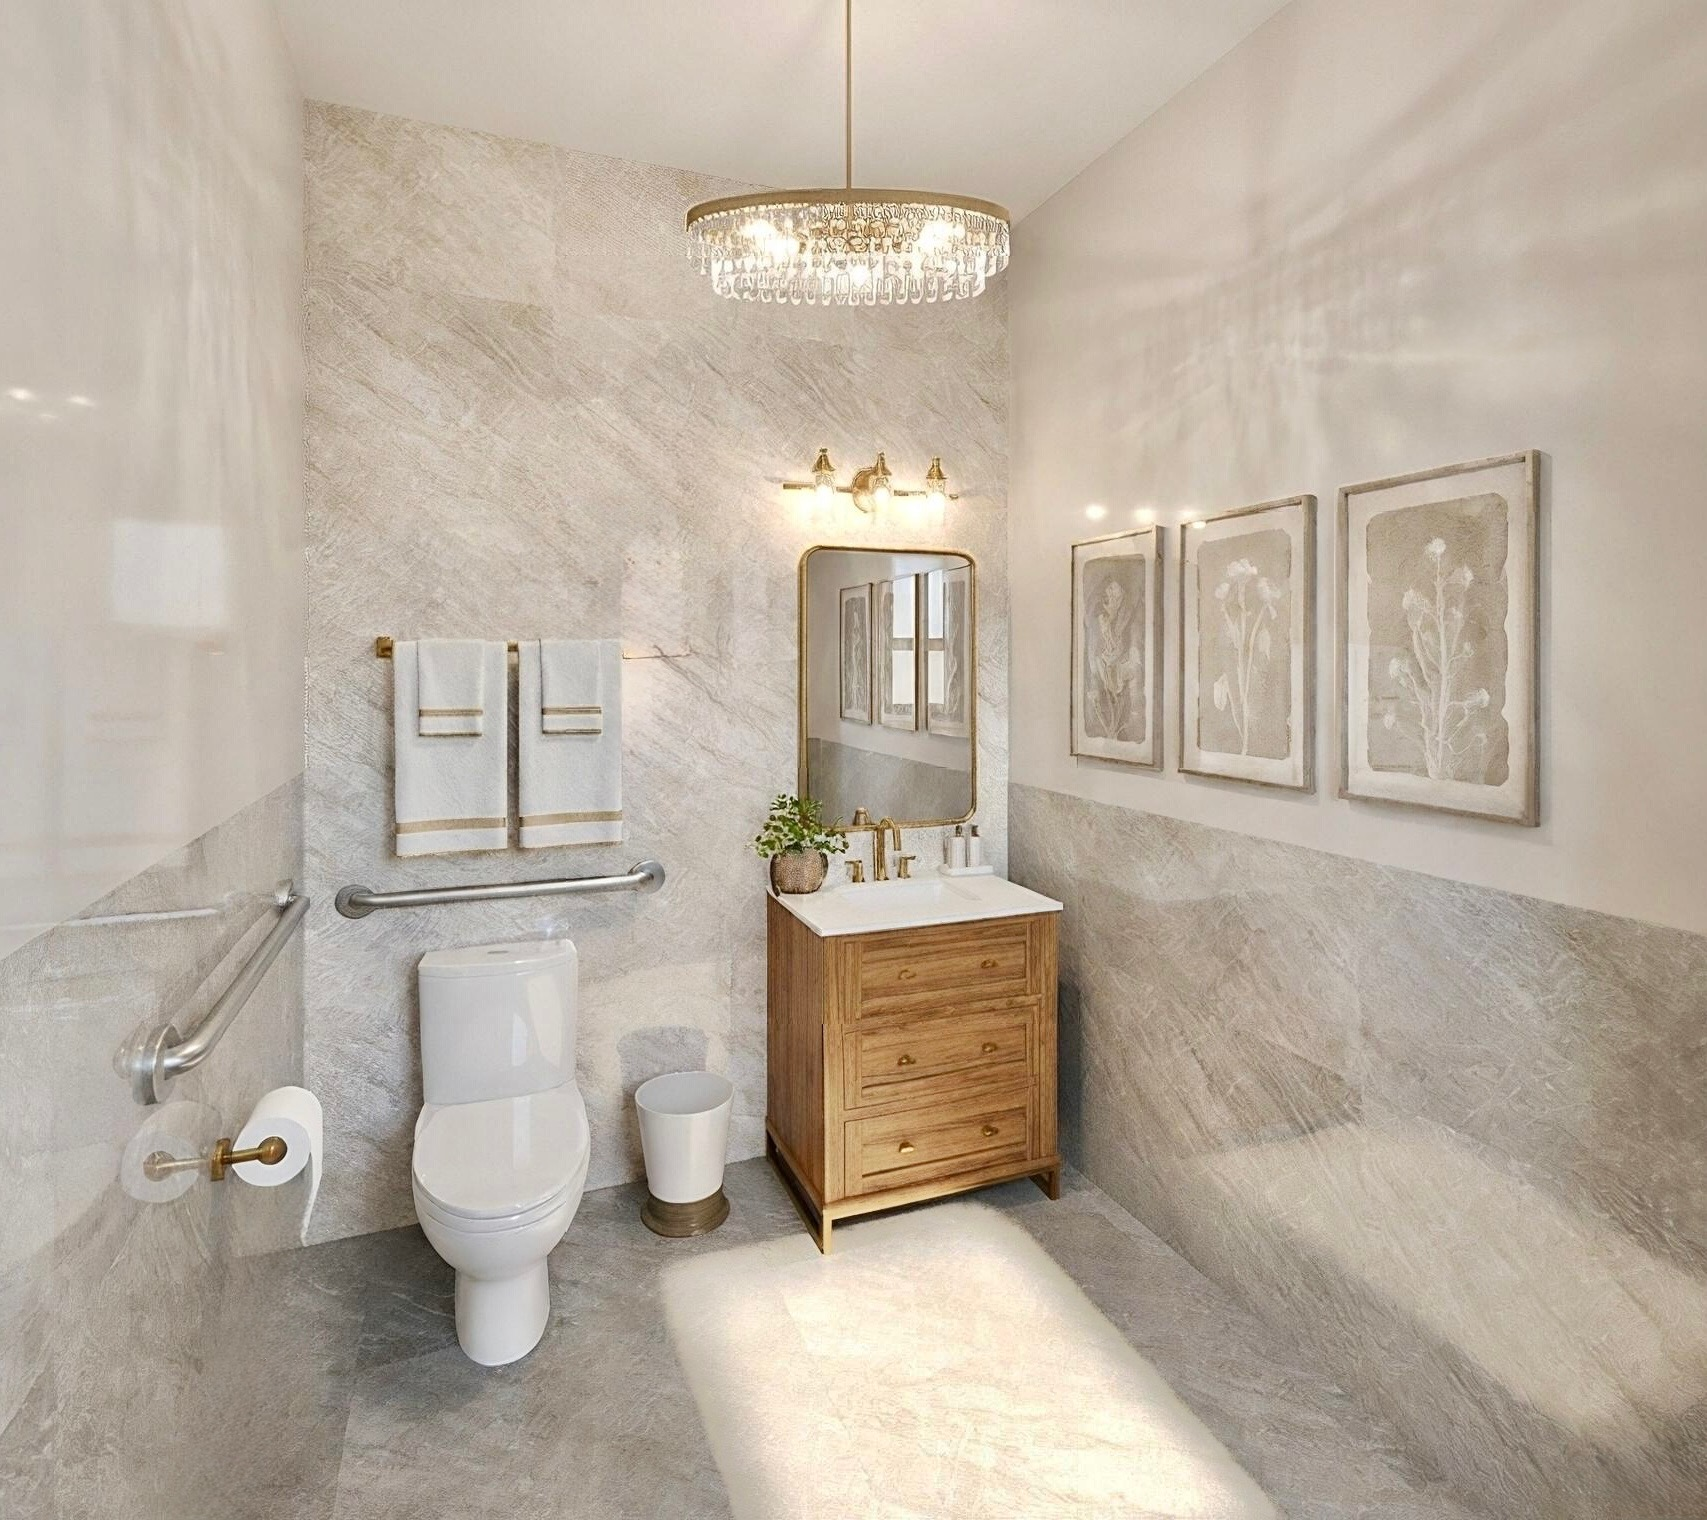
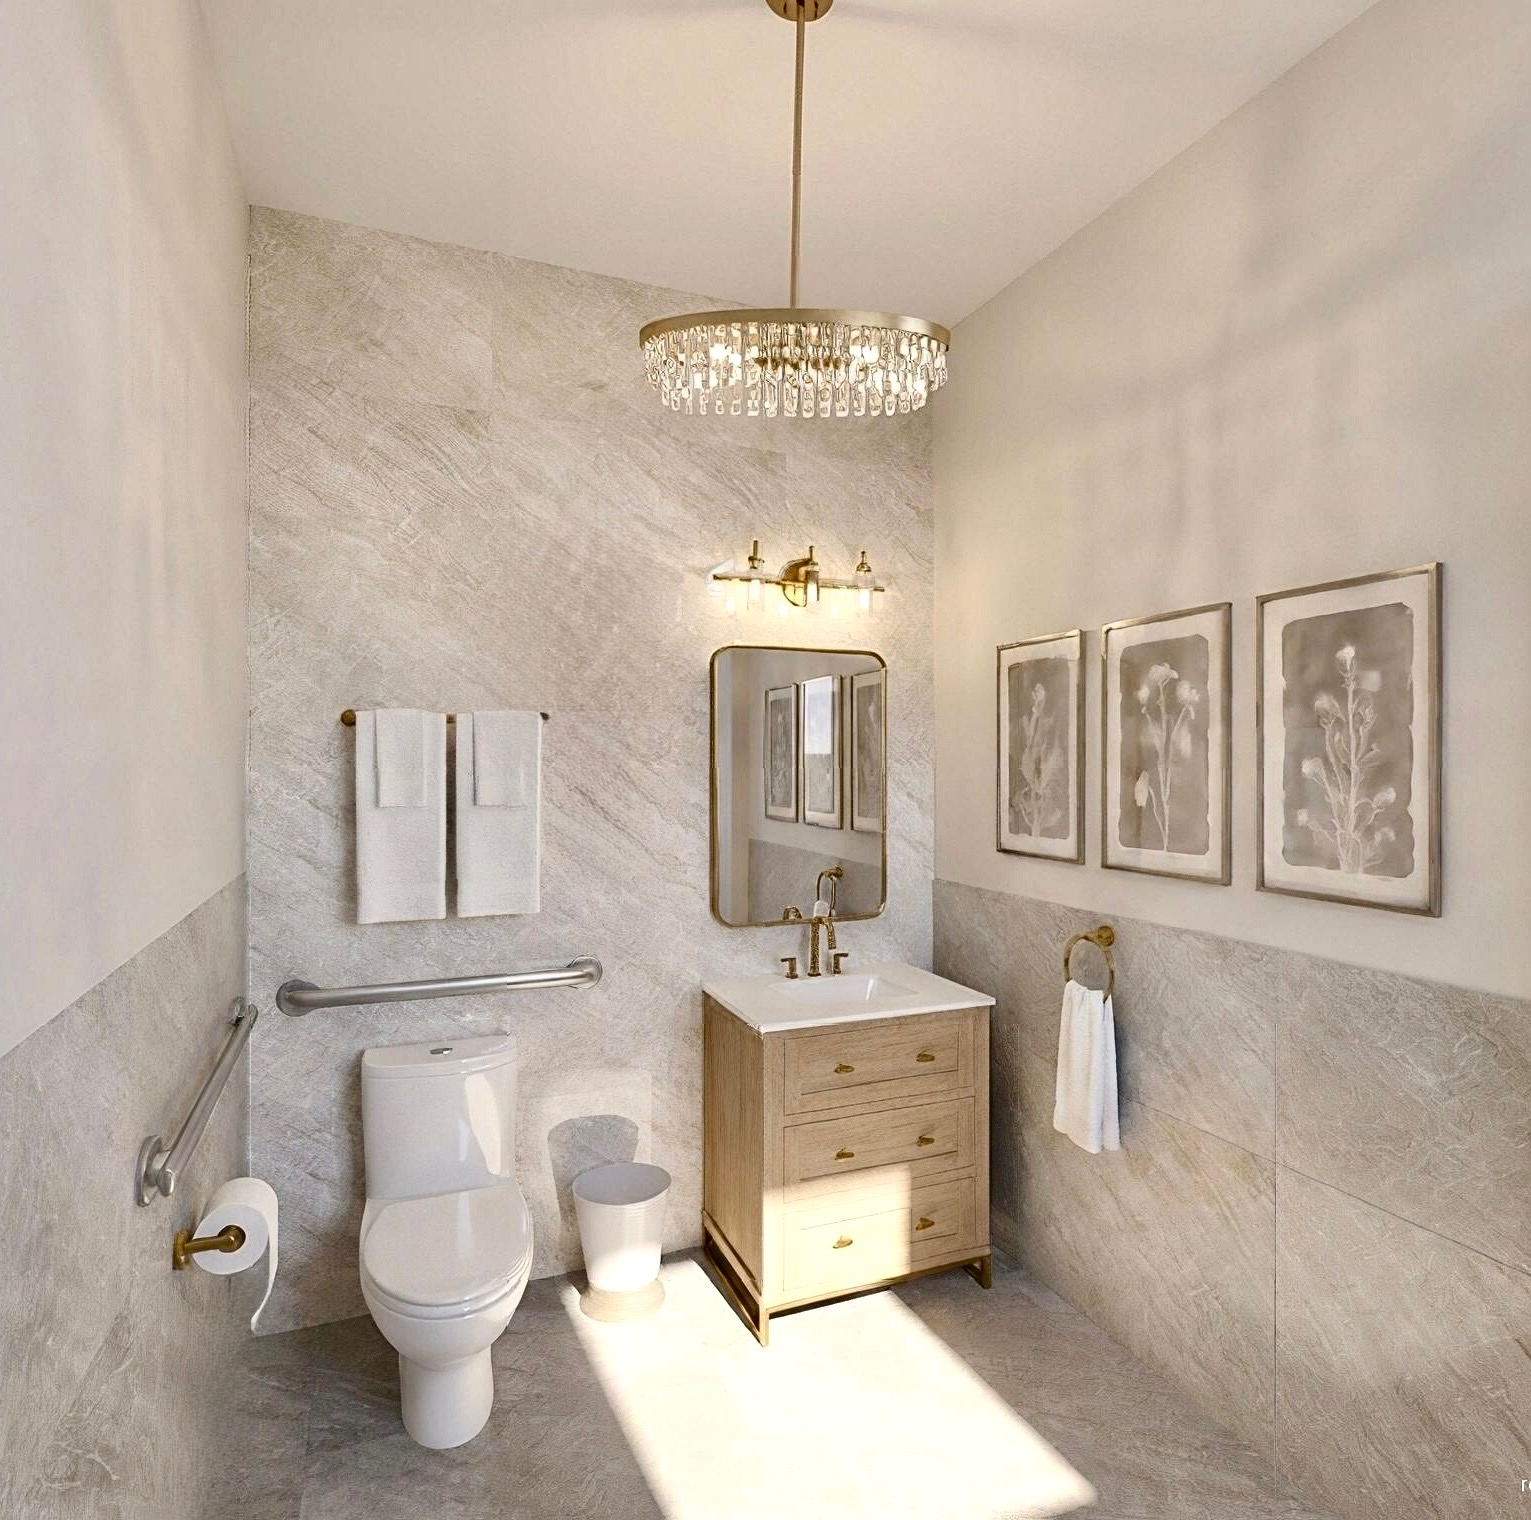
Add files via upload

diff --git a/index.html b/index.html
@@ -21,7 +21,7 @@
 <meta content="width=device-width, initial-scale=1" name="viewport"/>
 <title>The Suites at Adair | Five Private Salon Suites</title>
 <meta content="Five private luxury salon suites in Downtown Woodstock, Georgia." name="description"/>
-<link href="css/style.css?v=54" rel="stylesheet"/><link href="images/favicon.png" rel="icon" type="image/png"/><meta content="The Suites at Adair" property="og:title"/><meta content="Five private salon suites at the edge of Downtown Woodstock." property="og:description"/><meta content="website" property="og:type"/><meta content="https://thesuitesatadair.com/" property="og:url"/><meta content="#f4efe5" name="theme-color"/><style id="floor-plan-production-styles">/* V31 interactive floor plan */
+<link href="css/style.css?v=56" rel="stylesheet"/><link href="images/favicon.png" rel="icon" type="image/png"/><meta content="The Suites at Adair" property="og:title"/><meta content="Five private salon suites at the edge of Downtown Woodstock." property="og:description"/><meta content="website" property="og:type"/><meta content="https://thesuitesatadair.com/" property="og:url"/><meta content="#f4efe5" name="theme-color"/><style id="floor-plan-production-styles">/* V31 interactive floor plan */
 .floor-plan-section{padding:110px 0;background:#f7f2e9;border-top:1px solid rgba(25,24,20,.08);border-bottom:1px solid rgba(25,24,20,.08)}
 .floor-plan-head{display:grid;grid-template-columns:1.05fr .95fr;gap:55px;align-items:end;margin-bottom:42px}
 .floor-plan-head h2{margin:.2rem 0 0;font-size:clamp(2.8rem,5vw,5.2rem);line-height:.95}
@@ -807,7 +807,7 @@ FIVE PRIVATE SUITES   •   DOWNTOWN WOODSTOCK   •   BOUTIQUE BY DESIGN  
 <button aria-label="Close enlarged floor plan" class="plan-modal-close" type="button">×</button>
 <img alt="Enlarged floor plan of The Suites at Adair" src="images/floor-plan-clean.jpg"/>
 </div>
-<section class="editorial" id="gallery"><div class="wrap"><div class="gallery-head reveal"><h2>Gallery</h2><p>Explore each private suite and the shared amenities.</p></div><section class="gallery-showcase reveal"><div class="gallery-showcase-head"><h3>Exterior</h3><span>1 photo</span></div><div class="gallery-showcase-rail"><figure aria-label="Open Exterior of The Suites at Adair larger" class="gallery-card" role="button" tabindex="0"><img alt="Exterior of The Suites at Adair" decoding="async" loading="eager" src="images/03-front-exterior-of-the-suites-at-adair-at-60-linton-stre.jpg"/><figcaption class="gallery-label">Exterior</figcaption></figure></div></section><section class="gallery-showcase reveal"><div class="gallery-showcase-head"><h3>Suite 1</h3><span>2 photos</span></div><div class="gallery-showcase-rail"><figure aria-label="Open Suite 1 view one larger" class="gallery-card" role="button" tabindex="0"><img alt="Suite 1 view one" decoding="async" loading="eager" src="images/suite-1-view-1.jpg"/><figcaption class="gallery-label">Suite 1</figcaption></figure><figure aria-label="Open Suite 1 view two larger" class="gallery-card" role="button" tabindex="0"><img alt="Suite 1 view two" decoding="async" loading="eager" src="images/suite-1-view-2.jpg"/><figcaption class="gallery-label">Suite 1 · View 2</figcaption></figure></div></section><section class="gallery-showcase reveal"><div class="gallery-showcase-head"><h3>Suite 2</h3><span>2 photos</span></div><div class="gallery-showcase-rail"><figure aria-label="Open Suite 2 view one larger" class="gallery-card" role="button" tabindex="0"><img alt="Suite 2 view one" decoding="async" loading="lazy" src="images/suite-2-view-1.jpg"/><figcaption class="gallery-label">Suite 2</figcaption></figure><figure aria-label="Open Suite 2 view two larger" class="gallery-card" role="button" tabindex="0"><img alt="Suite 2 view two" decoding="async" loading="lazy" src="images/suite-2-view-2.jpg"/><figcaption class="gallery-label">Suite 2 · View 2</figcaption></figure></div></section><section class="gallery-showcase reveal"><div class="gallery-showcase-head"><h3>Suite 3</h3><span>2 photos</span></div><div class="gallery-showcase-rail"><figure aria-label="Open Suite 3 view one larger" class="gallery-card" role="button" tabindex="0"><img alt="Suite 3 view one" decoding="async" loading="lazy" src="images/suite-3-view-1.jpg"/><figcaption class="gallery-label">Suite 3</figcaption></figure><figure aria-label="Open Suite 3 view two larger" class="gallery-card" role="button" tabindex="0"><img alt="Suite 3 view two" decoding="async" loading="lazy" src="images/suite-3-view-2.jpg"/><figcaption class="gallery-label">Suite 3 · View 2</figcaption></figure></div></section><section class="gallery-showcase reveal"><div class="gallery-showcase-head"><h3>Suite 4</h3><span>2 photos</span></div><div class="gallery-showcase-rail"><figure aria-label="Open Suite 4 view one larger" class="gallery-card" role="button" tabindex="0"><img alt="Suite 4 view one" decoding="async" loading="lazy" src="images/suite-4-view-1.jpg"/><figcaption class="gallery-label">Suite 4</figcaption></figure><figure aria-label="Open Suite 4 view two larger" class="gallery-card" role="button" tabindex="0"><img alt="Suite 4 view two" decoding="async" loading="lazy" src="images/suite-4-view-2.jpg"/><figcaption class="gallery-label">Suite 4 · View 2</figcaption></figure></div></section><section class="gallery-showcase reveal"><div class="gallery-showcase-head"><h3>Suite 5</h3><span>3 photos</span></div><div class="gallery-showcase-rail"><figure aria-label="Open Suite 5 view one larger" class="gallery-card" role="button" tabindex="0"><img alt="Suite 5 view one" decoding="async" loading="lazy" src="images/10-large-salon-suite-with-styling-and-shampoo-stations.jpg"/><figcaption class="gallery-label">Suite 5</figcaption></figure><figure aria-label="Open Suite 5 view two larger" class="gallery-card" role="button" tabindex="0"><img alt="Suite 5 view two" decoding="async" loading="lazy" src="images/09-salon-suite-with-brick-wall-and-double-styling-stations.jpg"/><figcaption class="gallery-label">Suite 5 · View 2</figcaption></figure><figure aria-label="Open Suite 5 view three larger" class="gallery-card" role="button" tabindex="0"><img alt="Suite 5 view three" decoding="async" loading="lazy" src="images/suite-5-view-3.jpg"/><figcaption class="gallery-label">Suite 5 · View 3</figcaption></figure></div></section><section class="gallery-showcase reveal"><div class="gallery-showcase-head"><h3>Shared Spaces</h3><span>4 photos</span></div><div class="gallery-showcase-rail"><figure aria-label="Open Shared hallway larger" class="gallery-card" role="button" tabindex="0"><img alt="Shared hallway" decoding="async" loading="lazy" src="images/05-interior-corridor-with-glass-front-private-suites.jpg"/><figcaption class="gallery-label">Shared Spaces</figcaption></figure><figure aria-label="Open Shared hallway second view larger" class="gallery-card" role="button" tabindex="0"><img alt="Shared hallway second view" decoding="async" loading="lazy" src="images/06-bright-corridor-and-hospitality-area.jpg"/><figcaption class="gallery-label">Shared Spaces · View 2</figcaption></figure><figure aria-label="Open Coffee bar larger" class="gallery-card" role="button" tabindex="0"><img alt="Coffee bar" decoding="async" loading="lazy" src="images/coffee-bar.jpg"/><figcaption class="gallery-label">Shared Spaces · View 3</figcaption></figure><figure aria-label="Open Private restroom larger" class="gallery-card" role="button" tabindex="0"><img alt="Private restroom" decoding="async" loading="lazy" src="images/private-restroom.jpg"/><figcaption class="gallery-label">Shared Spaces · View 4</figcaption></figure></div></section></div>
+<section class="editorial" id="gallery"><div class="wrap"><div class="gallery-head reveal"><h2>Gallery</h2><p>Explore each private suite and the shared amenities.</p></div><section class="gallery-showcase reveal"><div class="gallery-showcase-head"><h3>Exterior</h3><span>1 photo</span></div><div class="gallery-showcase-rail"><figure aria-label="Open Exterior of The Suites at Adair larger" class="gallery-card" role="button" tabindex="0"><img alt="Exterior of The Suites at Adair" decoding="async" loading="eager" src="images/03-front-exterior-of-the-suites-at-adair-at-60-linton-stre.jpg"/><figcaption class="gallery-label">Exterior</figcaption></figure></div></section><section class="gallery-showcase reveal"><div class="gallery-showcase-head"><h3>Suite 1</h3><span>2 photos</span></div><div class="gallery-showcase-rail"><figure aria-label="Open Suite 1 view one larger" class="gallery-card" role="button" tabindex="0"><img alt="Suite 1 view one" decoding="async" loading="eager" src="images/suite-1-view-1.jpg"/><figcaption class="gallery-label">Suite 1</figcaption></figure><figure aria-label="Open Suite 1 view two larger" class="gallery-card" role="button" tabindex="0"><img alt="Suite 1 view two" decoding="async" loading="eager" src="images/suite-1-view-2.jpg?v=55"/><figcaption class="gallery-label">Suite 1 · View 2</figcaption></figure></div></section><section class="gallery-showcase reveal"><div class="gallery-showcase-head"><h3>Suite 2</h3><span>2 photos</span></div><div class="gallery-showcase-rail"><figure aria-label="Open Suite 2 view one larger" class="gallery-card" role="button" tabindex="0"><img alt="Suite 2 view one" decoding="async" loading="lazy" src="images/suite-2-view-1.jpg"/><figcaption class="gallery-label">Suite 2</figcaption></figure><figure aria-label="Open Suite 2 view two larger" class="gallery-card" role="button" tabindex="0"><img alt="Suite 2 view two" decoding="async" loading="lazy" src="images/suite-2-view-2.jpg"/><figcaption class="gallery-label">Suite 2 · View 2</figcaption></figure></div></section><section class="gallery-showcase reveal"><div class="gallery-showcase-head"><h3>Suite 3</h3><span>2 photos</span></div><div class="gallery-showcase-rail"><figure aria-label="Open Suite 3 view one larger" class="gallery-card" role="button" tabindex="0"><img alt="Suite 3 view one" decoding="async" loading="lazy" src="images/suite-3-view-1.jpg"/><figcaption class="gallery-label">Suite 3</figcaption></figure><figure aria-label="Open Suite 3 view two larger" class="gallery-card" role="button" tabindex="0"><img alt="Suite 3 view two" decoding="async" loading="lazy" src="images/suite-3-view-2.jpg"/><figcaption class="gallery-label">Suite 3 · View 2</figcaption></figure></div></section><section class="gallery-showcase reveal"><div class="gallery-showcase-head"><h3>Suite 4</h3><span>2 photos</span></div><div class="gallery-showcase-rail"><figure aria-label="Open Suite 4 view one larger" class="gallery-card" role="button" tabindex="0"><img alt="Suite 4 view one" decoding="async" loading="lazy" src="images/suite-4-view-1.jpg"/><figcaption class="gallery-label">Suite 4</figcaption></figure><figure aria-label="Open Suite 4 view two larger" class="gallery-card" role="button" tabindex="0"><img alt="Suite 4 view two" decoding="async" loading="lazy" src="images/suite-4-view-2.jpg"/><figcaption class="gallery-label">Suite 4 · View 2</figcaption></figure></div></section><section class="gallery-showcase reveal"><div class="gallery-showcase-head"><h3>Suite 5</h3><span>3 photos</span></div><div class="gallery-showcase-rail"><figure aria-label="Open Suite 5 view one larger" class="gallery-card" role="button" tabindex="0"><img alt="Suite 5 view one" decoding="async" loading="lazy" src="images/10-large-salon-suite-with-styling-and-shampoo-stations.jpg"/><figcaption class="gallery-label">Suite 5</figcaption></figure><figure aria-label="Open Suite 5 view two larger" class="gallery-card" role="button" tabindex="0"><img alt="Suite 5 view two" decoding="async" loading="lazy" src="images/09-salon-suite-with-brick-wall-and-double-styling-stations.jpg"/><figcaption class="gallery-label">Suite 5 · View 2</figcaption></figure><figure aria-label="Open Suite 5 view three larger" class="gallery-card" role="button" tabindex="0"><img alt="Suite 5 view three" decoding="async" loading="lazy" src="images/suite-5-view-3.jpg"/><figcaption class="gallery-label">Suite 5 · View 3</figcaption></figure></div></section><section class="gallery-showcase reveal"><div class="gallery-showcase-head"><h3>Shared Spaces</h3><span>4 photos</span></div><div class="gallery-showcase-rail"><figure aria-label="Open Shared hallway larger" class="gallery-card" role="button" tabindex="0"><img alt="Shared hallway" decoding="async" loading="lazy" src="images/05-interior-corridor-with-glass-front-private-suites.jpg"/><figcaption class="gallery-label">Shared Spaces</figcaption></figure><figure aria-label="Open Shared hallway second view larger" class="gallery-card" role="button" tabindex="0"><img alt="Shared hallway second view" decoding="async" loading="lazy" src="images/06-bright-corridor-and-hospitality-area.jpg"/><figcaption class="gallery-label">Shared Spaces · View 2</figcaption></figure><figure aria-label="Open Coffee bar larger" class="gallery-card" role="button" tabindex="0"><img alt="Coffee bar" decoding="async" loading="lazy" src="images/coffee-bar.jpg"/><figcaption class="gallery-label">Shared Spaces · View 3</figcaption></figure><figure aria-label="Open Private restroom larger" class="gallery-card" role="button" tabindex="0"><img alt="Private restroom" decoding="async" loading="lazy" src="images/private-restroom.jpg?v=55"/><figcaption class="gallery-label">Shared Spaces · View 4</figcaption></figure></div></section></div>
 <div class="rendering-notice reveal">
 <strong>Conceptual Renderings</strong>
   The images shown throughout this website include conceptual renderings intended to illustrate the planned design and vision for The Suites at Adair. Construction is currently underway, and the project is not yet complete. Final layouts, finishes, furnishings, materials, and design details are subject to change.
@@ -932,7 +932,7 @@ FIVE PRIVATE SUITES   •   DOWNTOWN WOODSTOCK   •   BOUTIQUE BY DESIGN  
 <svg viewbox="0 0 24 24"><path d="M13.5 22v-8h2.7l.4-3h-3.1V9.1c0-.9.3-1.6 1.6-1.6h1.7V4.8c-.3 0-1.3-.1-2.4-.1-2.4 0-4 1.5-4 4.2V11H8v3h2.4v8z"></path></svg>
 </a>
 </div></footer>
-<script defer="True" src="js/app.js?v=52"></script><script id="floor-plan-production-script">
+<script defer="True" src="js/app.js?v=56"></script><script id="floor-plan-production-script">
 document.addEventListener('DOMContentLoaded', () => {
   if (window.__floorPlanInitialized) return;
   window.__floorPlanInitialized = true;
